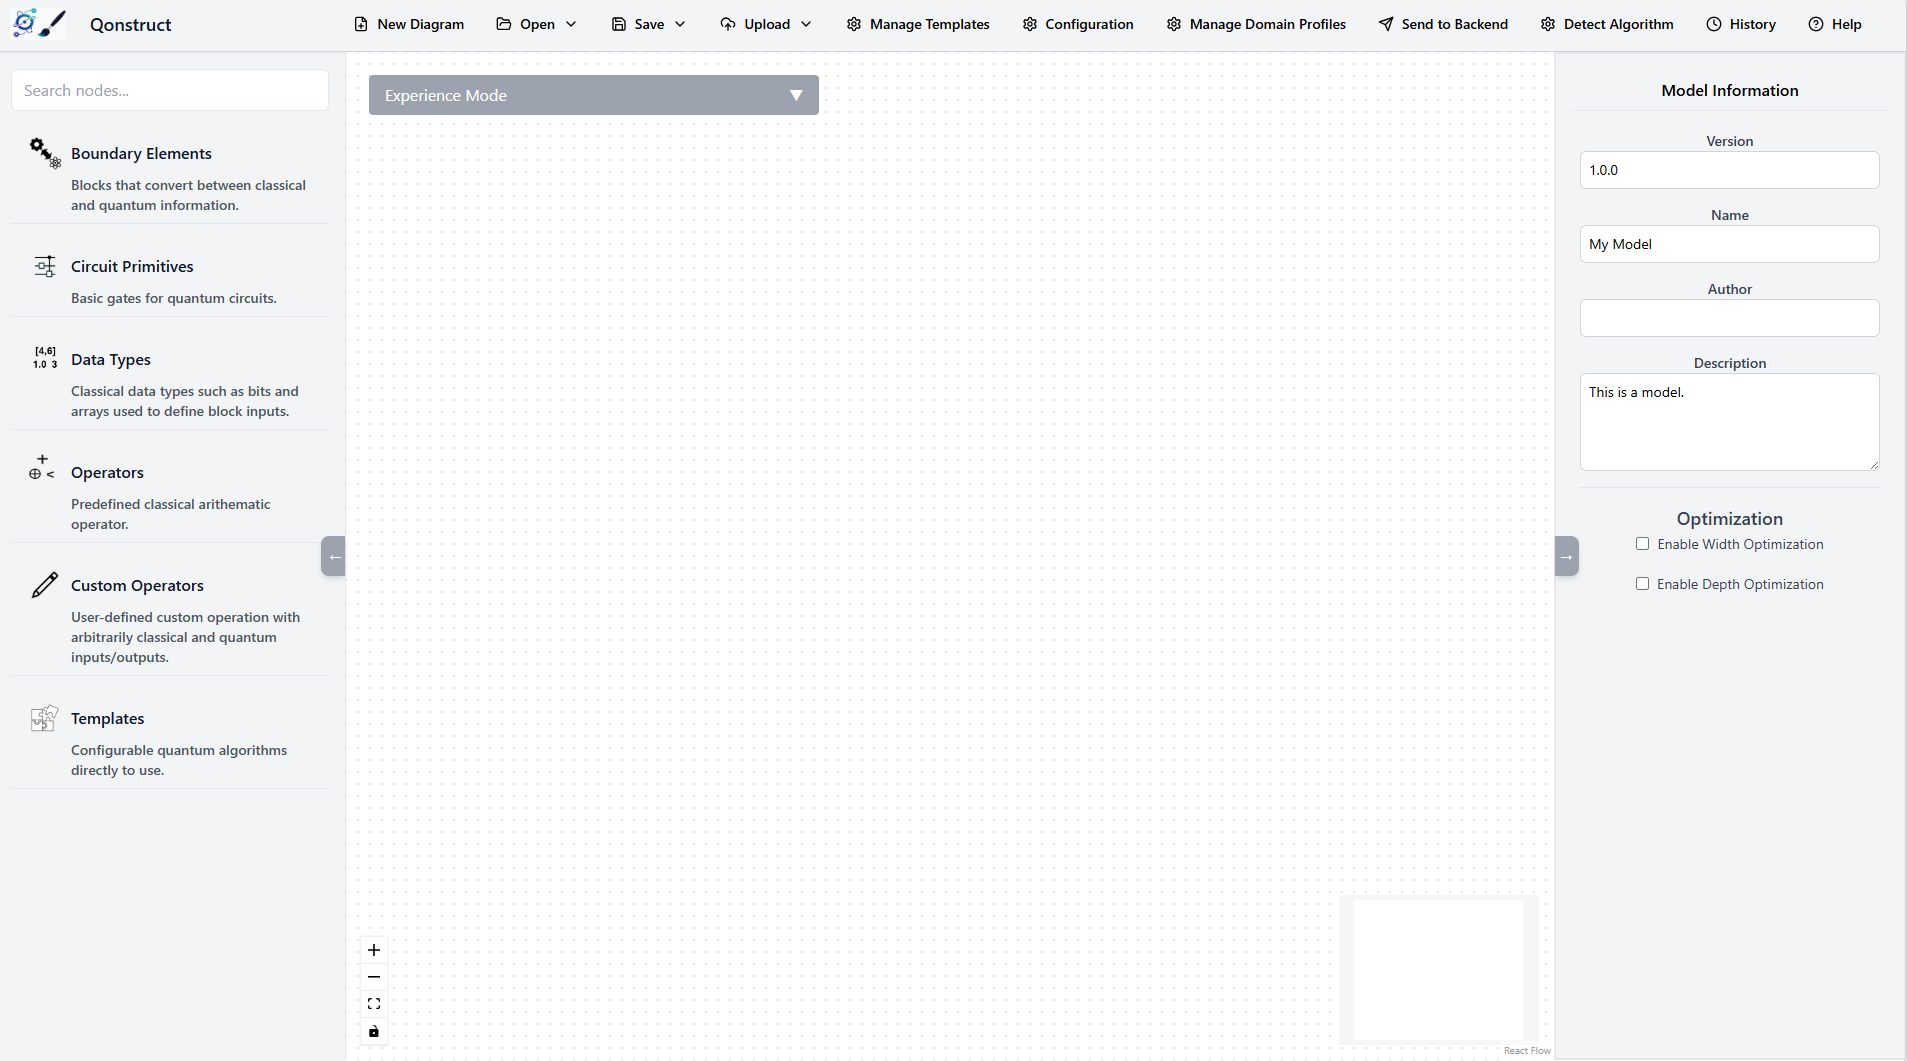
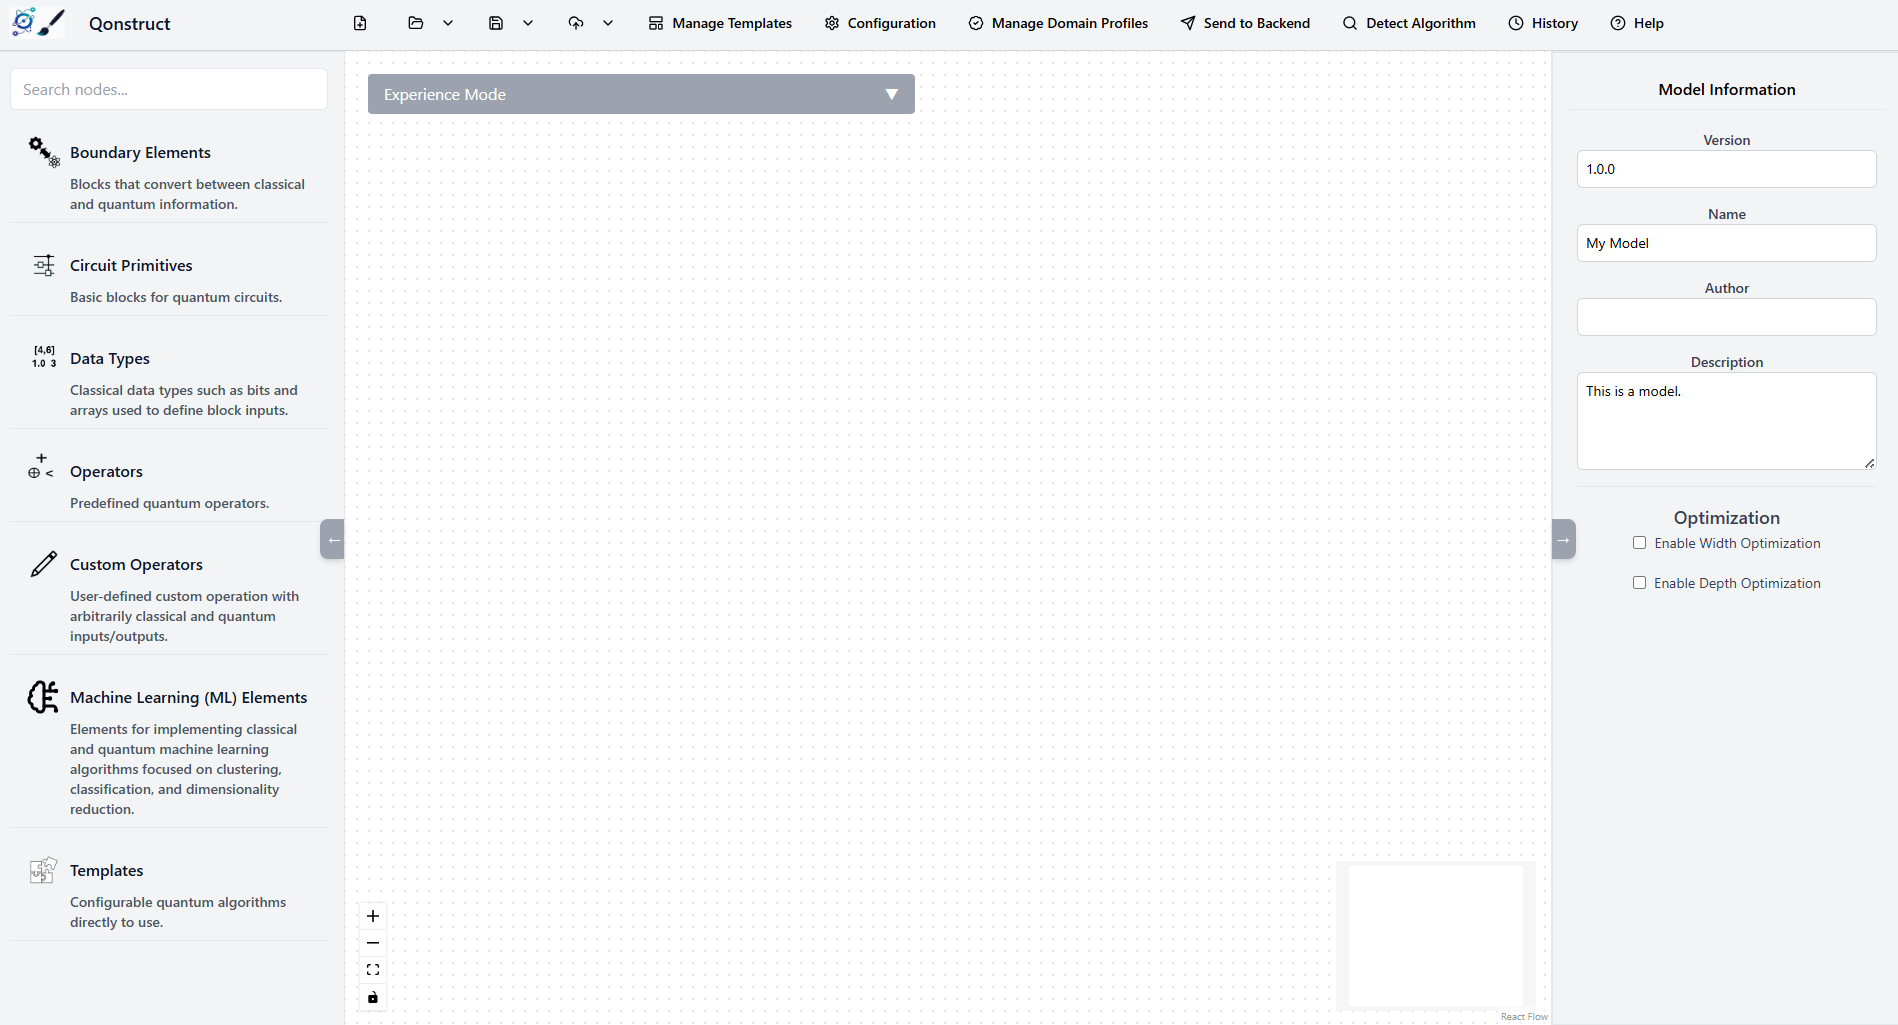
add docker setup for simplicity

diff --git a/README.md b/README.md
@@ -4,6 +4,8 @@ This repository accompanies the QUANCOM 2026 demo paper and provides a research 
 
 The artifact demonstrates how quantum experts and beginners model quantum applications collaboratively to increase the number of available models but also to laern each others vocabulary.
 
+The goal is to collaboratively model Grover's search algorithm to find the element 1.
+
 ---
 
 ## Overview
@@ -21,40 +23,18 @@ Middleware for the execution of quantum circuits on different quantum cloud prov
 
 ---
 
-## 1. Start the Quantum Low-Code Modeler
+## 1. Start the Services
 
-Run the following commands to start the Quantum Low-Code Modeler:
-
-```
-git clone https://github.com/AnonymousUserAccount958/low-code-modeler.git
-npm run dev
-```
----
-
-## 2. Start the Quantum Low-Code Backend
-
-Run the following commands to start the Quantum Low-Code Backend:
+Run the following commands to start all services:
 
 ```
-git clone https://github.com/AnonymousUserAccount958/leqo-backend.git
-npm run dev
-```
-
----
-
-## 3. Start Qunicorn
-
-Run the following commands to start tQunicorn
-
-```
-git clone https://github.com/qunicorn/qunicorn-core.git
+git clone https://github.com/LaviniaStiliadou/2026-quancom.git
+cd docker
 docker-compose up
 ```
-
 ---
 
-
-## 4. Open the Quantum Low-Code Modeler
+## 2. Open the Quantum Low-Code Modeler
 
 Open the Quantum Low-Code Modeler at http://localhost:4242.
 
@@ -64,44 +44,77 @@ You should see the Modeler start screen:
 
 ---
 
-## 5. Open a second tab of the Quantum Low-Code Modeler
+## 3. Open a second tab of the Quantum Low-Code Modeler
 
-Open a second tab of the Quantum Low-Code Modeler at http://localhost:4242.
+Open a second tab of the Quantum Low-Code Modeler at http://localhost:4242 and configure this user as expert.
 
 You should see the Modeler start screen:
 
-![Modeler Initial](docs/graphics/0_ModelerOverview.png)
+![Modeler Initial](docs/graphics/1_ConfigureExpertMode.png)
 
 ---
 
-## 6. Start the collaborative mode in both modeler
+## 4. Start the collaborative mode in both modeler
 
-Click on "Experience Mode" and enable "Collaborative Mode"
+Click on "Experience Mode" and enable "Collaboration Mode".
+As illustrated in the picture, you should see now two users and two cursors.
 
+![Enable Collaboration](docs/graphics/2_EnableCollaboration.png)
 ---
 
 
-## 7. Import the Model
+## 5. Start Modeling
 
-Import the ![model](models/grover.json).
+Open the "Boundary Elements" category and drag the "Prepare State" out.
+In case you want to skip the modeling, you can directly import the ![model](models/grover.json)
+![Prepare State](docs/graphics/3_PrepareState.png)
 
-After loading, the model should resemble the example shown below.
-![Import Model](docs/graphics/5_ModelImport.png)
+
+## 6. Add Oracle & Diffuser 
+
+Open the "Operators" category with the subcategory "Quantum operators" and drag the "Oracle" and "Grover Diffuser" out.
+Connect all the tasks together.
+
+![Oracle](docs/graphics/4_Grover.png)
+
+## 7. Add Measurement
+
+Open the "Boundary Elements" category and drag the "Measurement" out.
+Connect all the "Diffuser" to the "Measurement".
+![Measurement](docs/graphics/5_Measurement.png)
 
 ---
 
 ## 8. Transform the Model
 
 Click "Send to Backend" to transform the domain model into an executable circuit.
-![Transform](docs/graphics/6_Transformation.png)
+![Transform](docs/graphics/6_SendToBackend.png)
 
+Now the validation opens up, but these are only warnings that can be skipped, so click on "Continue".
+![Validation](docs/graphics/6_SendToBackendValidation.png)
+
+Select "OpenQASM3" as transformation target.
+![Validation](docs/graphics/7_SendToBackendOpenqasm.png)
 ---
 
-## 9. Transform the Model
+## 9. Execute the Model
 
-Click "History" and click on "Execute Circuit". Then select every blue button and you should see the execution result.
-![Download Result](docs/graphics/7_WorkflowDownload.png)
+Click "History".
+![Execute](docs/graphics/8_History.png)
 
+Now select the model that you want to execute by clicking on "Execute Circuit". 
+![Download Result](docs/graphics/9_HistoryValidation.png)
+
+Continue by clicking the blue buttons to start the execution.
+![Download Result](docs/graphics/10_ExecutionStart.png)
+![Download Result](docs/graphics/11_QunicornDeployment.png)
+![Download Result](docs/graphics/12_QunicornDeployment2.png)
+---
+
+## 10. View the Result 
+
+When the execution is finished, you can see that the element "1" is found.
+![Result](docs/graphics/13_QunicornExecutionResult.png)
 ---
 
 